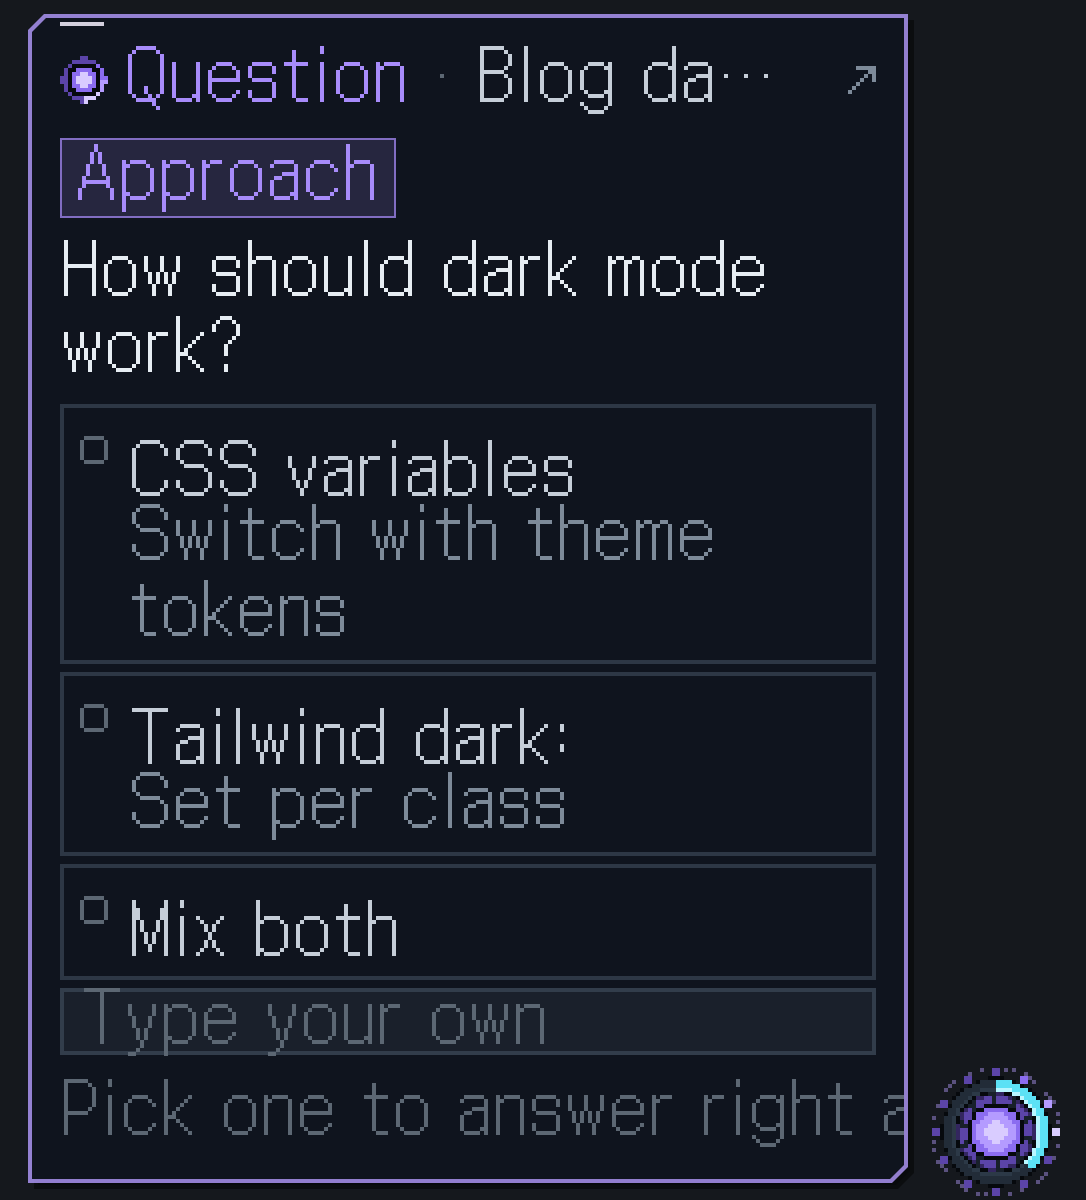
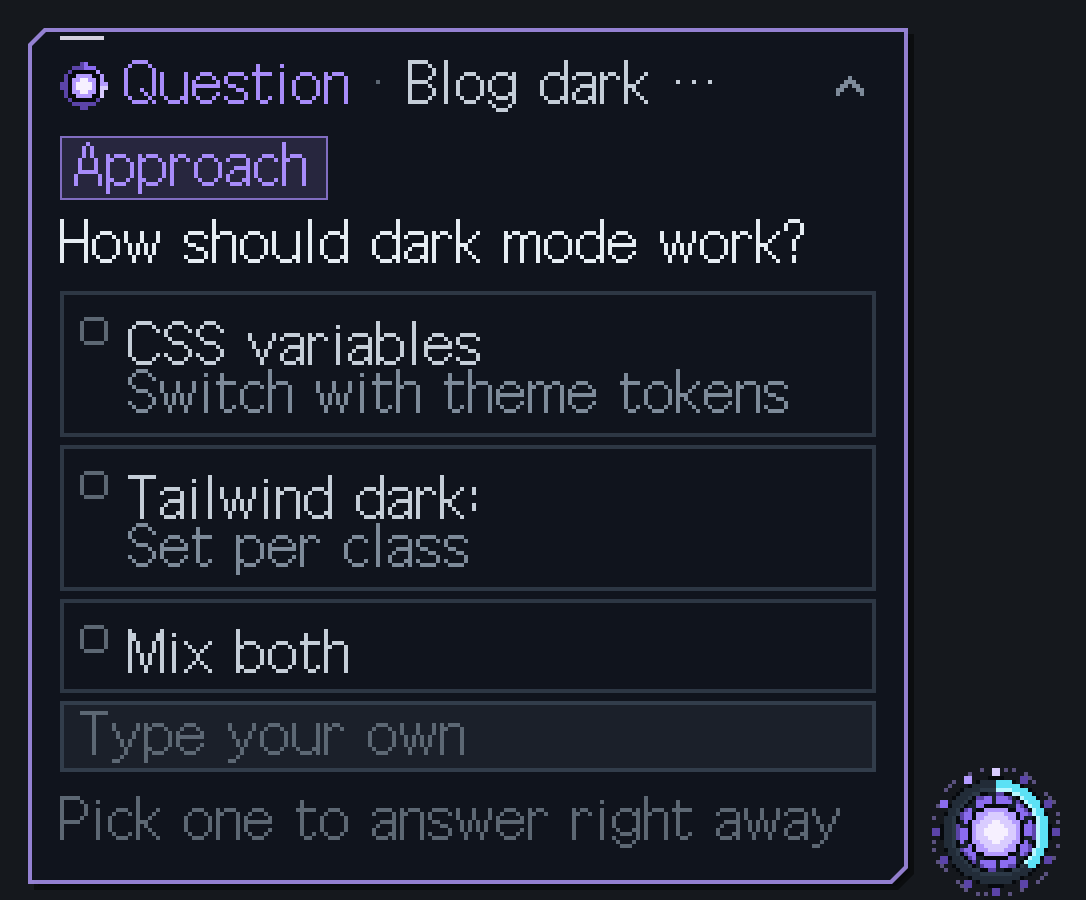
README: folding the question card, opening it in the app, long questions
New question card pictures in the smaller lettering.

Changed region(s): [[0.0304, 0.0, 0.9724, 0.9956]]

diff --git a/README.md b/README.md
@@ -57,7 +57,7 @@ When Claude asks a multiple-choice question, the core turns purple and a questio
 - If there are several questions, page through them one at a time.
 - If the answer you want isn't listed, type your own.
 
-It shows up alongside the app's own question prompt, so you can answer from either side.
+It shows up alongside the app's own question prompt, so you can answer from either side. To answer in the app, press **`↗`** to open that session there (the card folds away), or **`⌃`** to fold the card down to a single line until you need it. A long question scrolls inside the card instead of running off the screen.
 
 <br clear="right">
 

diff --git a/README.ko.md b/README.ko.md
@@ -57,7 +57,7 @@ Claude가 선택지 질문을 하면 코어가 보라색으로 바뀌고 질문 
 - 질문이 여러 개면 한 장씩 넘기며 답해요.
 - 원하는 답이 없으면 직접 입력해요.
 
-앱의 질문 창과 동시에 떠 있어서, 어느 쪽에서 답해도 돼요.
+앱의 질문 창과 동시에 떠 있어서, 어느 쪽에서 답해도 돼요. 앱에서 답하려면 **`↗`** 로 그 세션을 앱에서 열거나(카드는 접혀요), **`⌃`** 로 카드를 한 줄로 접어 둘 수 있어요. 질문이 길면 화면 밖으로 나가지 않고 카드 안에서 스크롤돼요.
 
 <br clear="right">
 
